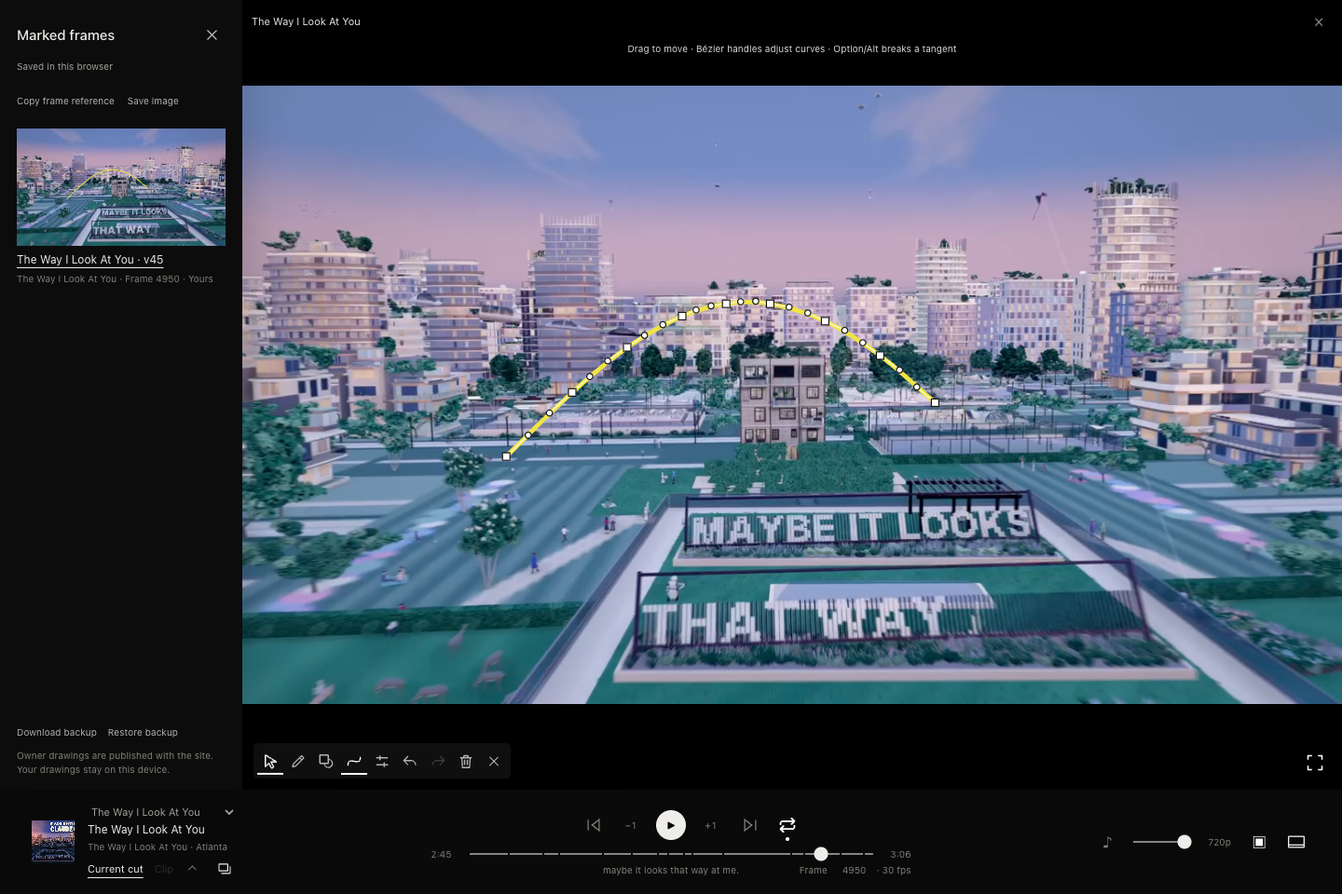
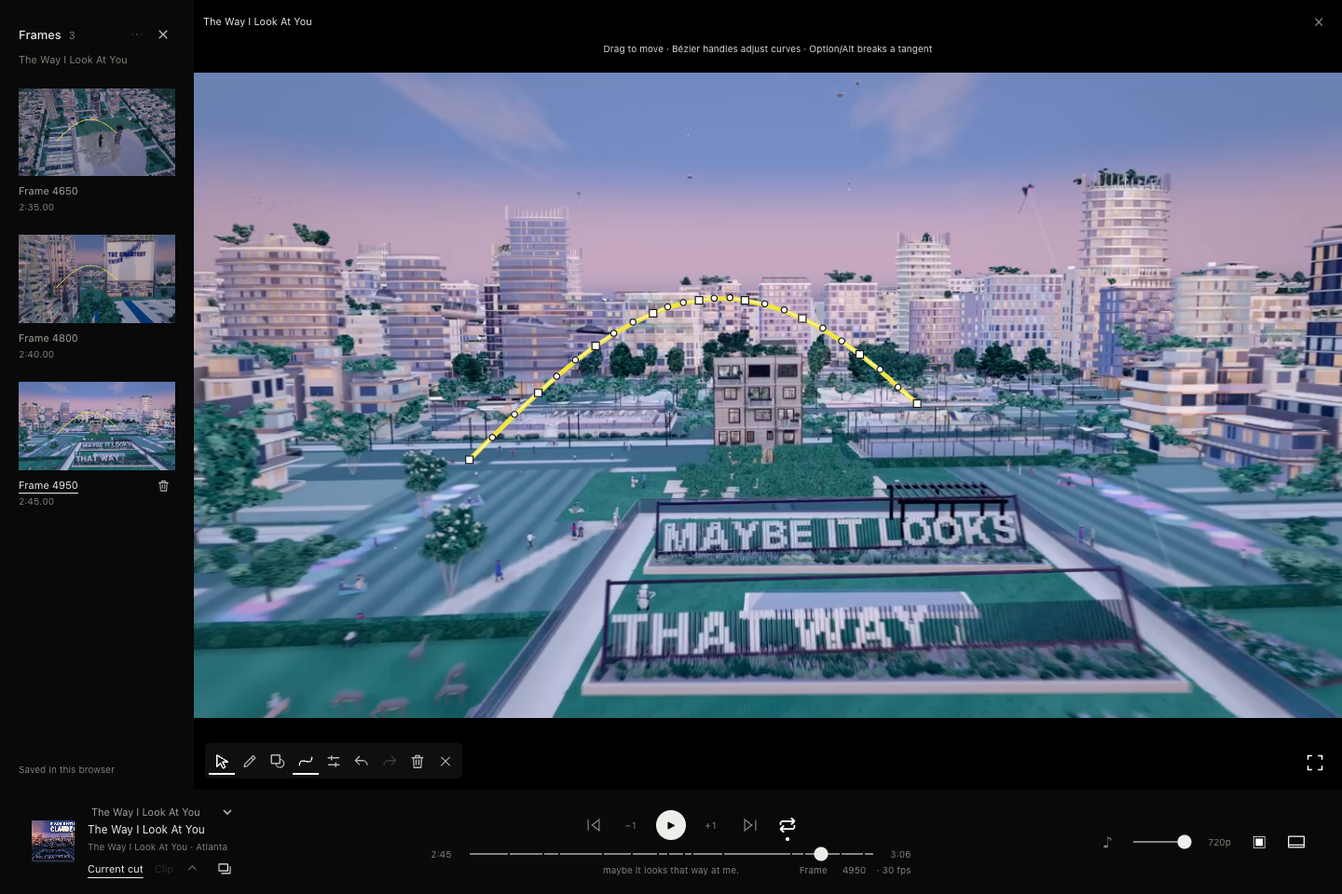
Simplify marked frames and add per-clip deletion with undo

diff --git a/web/markup.js b/web/markup.js
@@ -1,16 +1,17 @@
+import {markedFrames} from './markup-frames.js';
 import {MarkupStorage} from './markup-storage.js';
 import {clone,clipKey,frameKey,fittedBox,distance,shapePoints,linePoints,smoothNodes,drawingPath,translateDrawing,add,sub} from './markup-geometry.js';
 const NS='http://www.w3.org/2000/svg';
 const $=id=>document.getElementById(id);
 const el=(tag,attrs={},text)=>{const n=document.createElement(tag);for(const [k,v]of Object.entries(attrs))n.setAttribute(k,v);if(text!=null)n.textContent=text;return n;};
 const svg=(tag,attrs={})=>{const n=document.createElementNS(NS,tag);for(const[k,v]of Object.entries(attrs))n.setAttribute(k,v);return n;};
-const icons={pen:'M4 20l4-1L20 7l-3-3L5 16Z M14 7l3 3',select:'M5 3v17l5-5 4 7 3-2-4-7h8Z',shapes:'M3 3h12v12H3Z M15 9a6 6 0 1 1-6 6',undo:'M9 5 3 11l6 6 M3 11h11a6 6 0 0 1 6 6',redo:'m15 5 6 6-6 6 M21 11H10a6 6 0 0 0-6 6',trash:'M4 7h16 M9 7V4h6v3 M6 7l1 14h10l1-14 M10 10v7 M14 10v7',frames:'M3 5h14v11H3Z M7 20h14V9',close:'m6 6 12 12 M6 18 18 6',settings:'M4 7h16 M4 17h16 M9 4v6 M15 14v6',smooth:'M3 18C3 2 21 22 21 6',download:'M12 3v12 m-5-5 5 5 5-5 M4 17v4h16v-4'};
+const icons={more:'M5 12h.01 M12 12h.01 M19 12h.01',pen:'M4 20l4-1L20 7l-3-3L5 16Z M14 7l3 3',select:'M5 3v17l5-5 4 7 3-2-4-7h8Z',shapes:'M3 3h12v12H3Z M15 9a6 6 0 1 1-6 6',undo:'M9 5 3 11l6 6 M3 11h11a6 6 0 0 1 6 6',redo:'m15 5 6 6-6 6 M21 11H10a6 6 0 0 0-6 6',trash:'M4 7h16 M9 7V4h6v3 M6 7l1 14h10l1-14 M10 10v7 M14 10v7',frames:'M3 5h14v11H3Z M7 20h14V9',close:'m6 6 12 12 M6 18 18 6',settings:'M4 7h16 M4 17h16 M9 4v6 M15 14v6',smooth:'M3 18C3 2 21 22 21 6',download:'M12 3v12 m-5-5 5 5 5-5 M4 17v4h16v-4'};
 function button(name,icon,action){const b=el('button',{type:'button','aria-label':name,title:name,class:'markup-icon'});if(icon){const s=svg('svg',{viewBox:'0 0 24 24',fill:'none',stroke:'currentColor','stroke-width':1.7,'stroke-linecap':'round','stroke-linejoin':'round','aria-hidden':true});s.append(svg('path',{d:icons[icon]}));b.append(s);}else b.textContent=name;b.onclick=action;return b;}
 function download(blob,name){const a=el('a',{href:URL.createObjectURL(blob),download:name});a.click();setTimeout(()=>URL.revokeObjectURL(a.href),10000);}
 export class Markup {
   constructor(player,previewWindow,{base,staticMode,copyText}){
     this.player=player;this.window=previewWindow;this.static=staticMode;this.copyText=copyText;this.storage=new MarkupStorage(base,staticMode);
-    this.tool='pen';this.color='#F0E442';this.width=4;this.smooth=false;this.tolerance=2;this.editing=false;this.histories=new Map();this.selected=null;this.doc=null;this.key='';this.panelOpen=false;
+    this.tool='pen';this.color='#F0E442';this.width=4;this.smooth=false;this.tolerance=2;this.editing=false;this.histories=new Map();this.selected=null;this.doc=null;this.key='';this.panelOpen=false;this.removedFrames=[];
     this.preview=$('preview');this.video=$('video');this.build();
     this.storage.addEventListener('change',()=>{this.status.textContent=this.storage.status;this.renderList();if(!this.gesture)this.sync(true);});
     this.storage.ready.then(()=>this.sync(true));
@@ -58,22 +59,27 @@ export class Markup {
     this.hint=el('div',{id:'markup-hint'});this.preview.append(this.hint);
     this.snapshot=el('img',{id:'markup-snapshot',alt:'Saved marked frame'});this.snapshot.hidden=true;this.preview.insertBefore(this.snapshot,this.layer);
     this.panel=el('aside',{id:'markup-panel','aria-label':'Marked frames'});this.panel.hidden=true;
-    const heading=el('div',{class:'markup-heading'});heading.append(el('h2',{},'Marked frames'),button('Close marked frames','close',()=>this.openPanel(false)));this.panel.append(heading);
-    this.status=el('p',{class:'markup-status',role:'status'},this.storage.status);this.panel.append(this.status);
-    const actions=el('div',{class:'markup-actions'});this.copyButton=button('Copy frame reference',null,()=>this.copyReference());this.pngButton=button('Save image',null,()=>this.exportImage());actions.append(this.copyButton,this.pngButton);this.panel.append(actions);
+    const heading=el('div',{class:'markup-heading'});this.count=el('span',{class:'markup-count'});const title=el('h2',{},'Frames');title.append(this.count);
+    this.moreButton=button('Frame options','more',()=>this.popover(this.options,this.moreButton));this.moreButton.setAttribute('aria-expanded','false');
+    heading.append(title,this.moreButton,button('Close marked frames','close',()=>this.openPanel(false)));this.panel.append(heading);
+    this.clipLabel=el('p',{class:'markup-clip'});this.panel.append(this.clipLabel);
+    this.options=el('div',{class:'markup-popover markup-options',popover:'auto'});this.options.hidden=true;
+    const action=(name,fn)=>button(name,null,()=>{this.closePopovers();fn();});
+    this.copyButton=action('Copy frame reference',()=>this.copyReference());this.pngButton=action('Save frame image',()=>this.exportImage());this.options.append(this.copyButton,this.pngButton);
+    this.options.append(action('Download all drawings',()=>download(new Blob([JSON.stringify({schema:1,records:this.storage.records},null,2)],{type:'application/json'}),'wip-markup.json')));
+    this.options.append(action('Restore drawings',()=>this.importInput.click()));
+    this.importInput=el('input',{type:'file',accept:'.json,application/json',hidden:''});this.importInput.onchange=()=>this.restore();this.options.append(this.importInput);
+    if(!this.static)this.options.append(action('Retry saves',()=>this.storage.retry()));
+    this.options.append(el('small',{},this.static?'Your drawings stay in this browser. Owner drawings are read-only.':'Drawings save in your workspace.'));this.panel.append(this.options);
     this.list=el('div',{class:'markup-list'});this.panel.append(this.list);
-    const footer=el('div',{class:'markup-panel-footer'});
-    footer.append(button('Download backup',null,()=>download(new Blob([JSON.stringify({schema:1,records:this.storage.records},null,2)],{type:'application/json'}),'wip-markup.json')));
-    const restore=button('Restore backup',null,()=>this.importInput.click());footer.append(restore);
-    this.importInput=el('input',{type:'file',accept:'.json,application/json',hidden:''});this.importInput.onchange=()=>this.restore();footer.append(this.importInput);
-    if(!this.static)footer.append(button('Retry saves',null,()=>this.storage.retry()));
-    footer.append(el('small',{},this.static?'Owner drawings are published with the site. Your drawings stay on this device.':'Saved per frame, including older drafts. Agents can read the annotation JSON.'));this.panel.append(footer);document.body.append(this.panel);
+    this.notice=el('div',{class:'markup-notice',role:'status'});this.notice.hidden=true;this.noticeLabel=el('span');this.notice.append(this.noticeLabel,button('Undo frame deletion',null,()=>this.undoFrameRemoval()));this.notice.lastChild.textContent='Undo';this.panel.append(this.notice);
+    this.status=el('p',{class:'markup-status',role:'status'},this.storage.status);this.panel.append(this.status);document.body.append(this.panel);
     this.controls();
   }
-  closePopovers(){for(const [panel,b] of [[this.shapes,this.shapeButton],[this.settings,this.styleButton]]){panel.hidePopover?.();panel.hidden=true;b.setAttribute("aria-expanded","false");}}
+  closePopovers(){for(const [panel,b] of [[this.shapes,this.shapeButton],[this.settings,this.styleButton],[this.options,this.moreButton]]){panel.hidePopover?.();panel.hidden=true;b.setAttribute("aria-expanded","false");}}
   popover(panel,b){
     const open=panel.matches(":popover-open");this.closePopovers();if(open)return;panel.hidden=false;panel.showPopover?.();b.setAttribute("aria-expanded","true");
-    const anchor=b.getBoundingClientRect(),box=panel.getBoundingClientRect();Object.assign(panel.style,{position:"fixed",margin:"0",left:`${Math.max(8,Math.min(innerWidth-box.width-8,anchor.left))}px`,top:`${Math.max(8,anchor.top-box.height-10)}px`,bottom:"auto"});
+    const anchor=b.getBoundingClientRect(),box=panel.getBoundingClientRect();Object.assign(panel.style,{position:"fixed",margin:"0",left:`${Math.max(8,Math.min(innerWidth-box.width-8,anchor.left))}px`,top:`${Math.min(innerHeight-box.height-8,Math.max(8,anchor.top>=box.height+10?anchor.top-box.height-10:anchor.bottom+8))}px`,bottom:"auto"});
   }
   selectedDrawing(){return this.doc?.drawings.find(d=>d.id===this.selected);}
   frame(){return this.player.frame;}
@@ -81,7 +87,8 @@ export class Markup {
   available(){return !!this.player.track?.video&&!this.player.playing&&this.player.preview&&!this.video.seeking&&this.player.hasPicture&&this.video.readyState>=2&&!this.player.error&&!this.doc?.sourceChanged;}
   sync(force=false){
     if(this.gesture&&(this.player.playing||clipKey(this.player.track)!==clipKey(this.doc.clip)||this.frame()!==this.doc.frame))this.cancel();
-    const key=JSON.stringify([clipKey(this.player.track),this.frame(),this.player.fps]);
+    const clip=clipKey(this.player.track);if(clip!==this.listClip){this.listClip=clip;this.renderList();}
+    const key=JSON.stringify([clip,this.frame(),this.player.fps]);
     if(key!==this.key||force){
       this.key=key;
       const found=this.storage.records.find(a=>a.id===this.focusedId&&this.matching(a))||this.storage.records.find(a=>this.matching(a));
@@ -106,7 +113,7 @@ export class Markup {
   setTool(tool){this.tool=tool;this.selected=null;this.controls();this.render();}
   openPanel(on){this.panelOpen=on;this.panel.hidden=!on;this.dockButton.setAttribute('aria-expanded',String(on));document.body.classList.toggle('markup-open',on);this.layout();this.renderList();}
   layout(){
-    const mobile=innerWidth<=700;const inset=this.panelOpen?(mobile?0:260):0,bottom=this.panelOpen&&mobile?210:0;
+    const mobile=innerWidth<=700;const inset=this.panelOpen?(mobile?0:208):0,bottom=this.panelOpen&&mobile?176:0;
     document.documentElement.style.setProperty('--markup-side',`${inset}px`);document.documentElement.style.setProperty('--markup-bottom',`${bottom}px`);
     this.window.reserved={left:inset,bottom};this.window.layout();
     const v=this.video.getBoundingClientRect(),p=this.preview.getBoundingClientRect();
@@ -121,7 +128,7 @@ export class Markup {
     this.smoothButton.setAttribute('aria-pressed',String(this.selectedDrawing()?.smooth??this.smooth));
     const history=this.doc&&this.histories.get(this.doc.id);this.undoButton.disabled=!history?.undo.length;this.redoButton.disabled=!history?.redo.length;this.deleteButton.disabled=!this.selectedDrawing();
     for(const b of this.settings.querySelectorAll('[data-color]'))b.setAttribute('aria-pressed',String(b.dataset.color===this.color));
-    this.copyButton.disabled=!this.doc&&!this.owners?.length;this.pngButton.disabled=this.copyButton.disabled;
+    this.copyButton.disabled=!this.doc?.drawings.length&&!this.owners?.some(a=>a.drawings.length);this.pngButton.disabled=this.copyButton.disabled;
   }
   render(){
     this.layer.replaceChildren();const all=[...(this.owners||[]),...(this.doc?[this.doc]:[])];
@@ -198,25 +205,50 @@ export class Markup {
   keydown(e){
     if(!this.editing||e.target.closest('input,textarea,select')||e.target.isContentEditable)return;
     if((e.ctrlKey||e.metaKey)&&e.key.toLowerCase()==='z'){e.preventDefault();e.stopPropagation();this.undo(e.shiftKey);return;}
-    if(e.key==='Escape'){if(this.shapes.matches(':popover-open')||this.settings.matches(':popover-open')){this.closePopovers();e.preventDefault();e.stopPropagation();return;}e.preventDefault();e.stopPropagation();if(this.gesture)this.cancel();else if(this.selected){this.selected=null;this.render();this.controls();}else this.setEditing(false);return;}
+    if(e.key==='Escape'){if(this.shapes.matches(':popover-open')||this.settings.matches(':popover-open')||this.options.matches(':popover-open')){this.closePopovers();e.preventDefault();e.stopPropagation();return;}e.preventDefault();e.stopPropagation();if(this.gesture)this.cancel();else if(this.selected){this.selected=null;this.render();this.controls();}else this.setEditing(false);return;}
     if(e.key==='Delete'||e.key==='Backspace'){e.preventDefault();e.stopPropagation();this.remove();return;}
     if(e.ctrlKey||e.metaKey||e.altKey)return;
     if(e.key.toLowerCase()==='v'||e.key.toLowerCase()==='b'){e.preventDefault();this.setTool(e.key.toLowerCase()==='v'?'select':'pen');}
     if(e.key===' '&&e.target===this.layer){e.preventDefault();this.player.toggle();}
   }
-  renderList(){
-    const focus=document.activeElement?.dataset.annotation;
-    this.list.replaceChildren();const records=[...this.storage.owners,...this.storage.records].filter(a=>a.drawings.length).sort((a,b)=>b.updatedAt.localeCompare(a.updatedAt));
-    this.dockButton.title=`Marked frames · ${records.length}`;
-    if(!records.length)this.list.append(el('p',{class:'markup-empty'},'Draw on a paused frame. It will appear here.'));
-    for(const a of records){const b=el('button',{type:'button',class:'markup-frame','data-annotation':a.id,'data-owner':String(!!a.owner)});const picture=el('div',{class:'markup-thumb'});
-      if(a.thumbnail)picture.append(el('img',{src:a.thumbnail,alt:'',loading:'lazy'}));
-      const overlay=svg('svg',{viewBox:`0 0 ${a.width} ${a.height}`,'aria-hidden':true});for(const d of a.drawings)overlay.append(svg('path',{d:drawingPath(d),fill:'none',stroke:d.color,'stroke-width':d.width,'stroke-linecap':'round','stroke-linejoin':'round'}));picture.append(overlay);
-      b.append(picture,el('span',{},`${a.clip.title}${a.clip.version!=null?` · v${a.clip.version}`:''}`),el('small',{},`Frame ${a.frame}${a.owner?' · Owner':this.static?' · Yours':''} · ${a.clip.projectTitle||a.project}`));b.onclick=()=>this.jump(a);this.list.append(b);
+  removeFrame(group){
+    const records=group.records.filter(a=>!a.owner);if(!records.length)return;
+    this.cancel();this.removedFrames.push(clone(records));if(this.removedFrames.length>20)this.removedFrames.shift();
+    for(const a of records){const current=this.storage.records.find(r=>r.id===a.id);if(!current)continue;
+      if(this.doc?.id===a.id){this.checkpoint(current.drawings);this.selected=null;}
+      this.storage.save({...clone(current),drawings:[],updatedAt:new Date().toISOString()},clone(current));
     }
-    this.highlightList();if(focus)this.list.querySelector(`[data-annotation="${CSS.escape(focus)}"]`)?.focus({preventScroll:true});
+    this.notice.hidden=false;this.noticeLabel.textContent=`Frame ${group.frame} removed`;
+    this.sync(true);this.renderList();this.notice.querySelector('button').focus({preventScroll:true});
   }
-  highlightList(){for(const b of this.list.querySelectorAll('[data-annotation]'))b.setAttribute('aria-current',String(b.dataset.annotation===this.doc?.id||this.owners?.some(a=>a.id===b.dataset.annotation)));}
+  undoFrameRemoval(){
+    const records=this.removedFrames.pop();if(!records)return;
+    for(const a of records){const current=this.storage.records.find(r=>r.id===a.id);if(!current)continue;
+      // Restore removed strokes without replacing any edits made since deletion.
+      const drawings=[...a.drawings.filter(d=>!current.drawings.some(r=>r.id===d.id)),...current.drawings];
+      this.storage.save({...clone(current),drawings,updatedAt:new Date().toISOString()},clone(current));
+    }
+    this.notice.hidden=!this.removedFrames.length;if(this.removedFrames.length)this.noticeLabel.textContent=`Frame ${this.removedFrames.at(-1)[0].frame} removed`;
+    this.jump(records[0]);this.renderList();this.list.querySelector(`[data-annotation="${CSS.escape(records[0].id)}"]`)?.focus({preventScroll:true});
+  }
+  renderList(){
+    const focus=document.activeElement?.dataset.annotation,scroll=this.list.scrollTop;
+    this.list.replaceChildren();const groups=markedFrames([...this.storage.owners,...this.storage.records],this.player.track);
+    this.count.textContent=groups.length?String(groups.length):'';this.dockButton.title=`Marked frames in this clip · ${groups.length}`;
+    this.clipLabel.textContent=this.player.track?.title||'Select a video';this.clipLabel.title=this.clipLabel.textContent;
+    if(!groups.length)this.list.append(el('p',{class:'markup-empty'},this.player.track?.video?'No marked frames in this clip. Draw on a paused frame to add one.':'Play a video to see its marked frames.'));
+    for(const group of groups){const editable=group.records.filter(a=>!a.owner),a=editable[0]||group.records[0],row=el('div',{class:'markup-row'});
+      const b=el('button',{type:'button',class:'markup-frame','data-annotation':a.id,'data-owner':String(!editable.length),'data-frame':a.frame,'data-fps':a.fps,'aria-label':`Go to frame ${a.frame}`});const picture=el('div',{class:'markup-thumb'});
+      const thumbnail=group.records.find(r=>r.thumbnail)?.thumbnail;if(thumbnail)picture.append(el('img',{src:thumbnail,alt:'',loading:'lazy'}));
+      const overlay=svg('svg',{viewBox:`0 0 ${a.width} ${a.height}`,'aria-hidden':true});for(const r of group.records)for(const d of r.drawings)overlay.append(svg('path',{d:drawingPath(d),fill:'none',stroke:d.color,'stroke-width':d.width,'stroke-linecap':'round','stroke-linejoin':'round'}));picture.append(overlay);
+      const seconds=a.frame/a.fps,time=`${Math.floor(seconds/60)}:${(seconds%60).toFixed(2).padStart(5,'0')}`;
+      b.append(picture,el('span',{},`Frame ${a.frame}`),el('small',{},`${time}${!editable.length?' · Owner':''}`));b.onclick=()=>this.jump(a);row.append(b);
+      if(editable.length){const remove=button(this.static?`Remove your drawings on frame ${a.frame}`:`Delete marked frame ${a.frame}`,'trash',()=>this.removeFrame(group));remove.classList.add('markup-remove-frame');row.append(remove);}
+      this.list.append(row);
+    }
+    this.highlightList();this.list.scrollTop=scroll;if(focus)this.list.querySelector(`[data-annotation="${CSS.escape(focus)}"]`)?.focus({preventScroll:true});
+  }
+  highlightList(){for(const b of this.list.querySelectorAll('[data-annotation]'))b.setAttribute('aria-current',String(+b.dataset.frame===this.frame()&&+b.dataset.fps===this.player.fps));}
   jump(a){this.focusedId=a.owner?null:a.id;this.cancel();this.player.pause();this.editing=false;this.preview.classList.remove('markup-editing');this.toggle.setAttribute('aria-pressed','false');
     if(clipKey(this.player.track)!==clipKey(a.clip))this.player.load(a.clip,{time:a.frame/a.fps+(a.clip.offset||0),autoplay:false,preview:true});
     else this.player.showPreview(true);

diff --git a/web/markup.css b/web/markup.css
@@ -29,45 +29,61 @@
 .markup-colors .markup-icon { background:var(--swatch); border-radius:50%; width:20px!important; height:20px!important; box-shadow:0 0 0 1px #7774; }
 .markup-colors [aria-pressed=true] { outline:1px solid #fff; outline-offset:3px; }
 #markup-hint { position:absolute; top:46px; left:12px; right:12px; text-align:center; color:#ddd; font-size:10px; pointer-events:none; text-shadow:0 1px 4px #000,0 1px 4px #000; }
-#markup-panel { position:fixed; top:0; bottom:var(--dock); left:0; width:260px; z-index:23; background:#0c0c0cfb; padding:22px 18px 14px; display:flex; flex-direction:column; gap:12px; box-shadow:10px 0 35px #0002; }
+#markup-panel { position:fixed; top:0; bottom:var(--dock); left:0; width:208px; z-index:23; background:var(--bg,#0c0c0c); padding:24px 20px 14px; display:flex; flex-direction:column; gap:0; }
 #markup-panel[hidden] { display:none; }
-.markup-heading { display:flex; align-items:center; justify-content:space-between; }
-.markup-heading h2 { font-size:15px; font-weight:500; margin:0; }
-.markup-status { font-size:10px; color:var(--muted); min-height:26px; margin:0; line-height:1.5; }
-.markup-actions { display:flex; gap:14px; }
-.markup-actions .markup-icon,.markup-panel-footer .markup-icon { width:auto; height:auto; padding:0; font-size:10px; }
-.markup-list { overflow:auto; min-height:0; flex:1; overscroll-behavior:contain; }
-.markup-frame { display:block; text-align:left; padding:12px 0 16px; width:100%; color:var(--muted); }
+.markup-heading { display:flex; align-items:center; gap:2px; }
+.markup-heading h2 { flex:1; font-size:13px; font-weight:500; margin:0; }
+.markup-count { margin-left:8px; color:var(--faint); font-size:11px; font-weight:400; font-variant-numeric:tabular-nums; }
+.markup-heading .markup-icon { width:26px; height:26px; padding:4px; }
+.markup-heading .markup-icon svg { width:16px; height:16px; }
+.markup-clip { font-size:11px; line-height:1.5; color:var(--faint); margin:6px 0 22px; overflow:hidden; text-overflow:ellipsis; white-space:nowrap; }
+.markup-status { font-size:10px; color:var(--faint); margin:12px 0 0; line-height:1.5; overflow-wrap:anywhere; }
+.markup-options { display:flex; flex-direction:column; gap:8px; }
+.markup-options[hidden] { display:none; }
+.markup-options .markup-icon { width:auto; height:auto; padding:4px 0; justify-content:flex-start; font-size:12px; }
+.markup-list { overflow:auto; min-height:0; flex:1; overscroll-behavior:contain; scrollbar-width:thin; }
+.markup-row { position:relative; margin-bottom:22px; }
+.markup-frame { display:block; text-align:left; padding:0; width:100%; color:var(--muted); }
 .markup-frame:hover,.markup-frame[aria-current=true] { color:var(--ink); }
+.markup-frame > span { display:block; font-size:11px; margin-top:8px; padding-right:27px; line-height:1.4; font-variant-numeric:tabular-nums; }
 .markup-frame[aria-current=true] > span { text-decoration:underline; text-underline-offset:4px; }
-.markup-frame > span { display:block; font-size:12px; margin-top:7px; line-height:1.4; }
-.markup-frame > small { display:block; font-size:10px; color:var(--faint); margin-top:4px; line-height:1.5; }
-.markup-thumb { position:relative; aspect-ratio:16/9; background:#000; }
+.markup-frame > small { display:block; font-size:10px; color:var(--faint); margin-top:3px; line-height:1.5; font-variant-numeric:tabular-nums; }
+.markup-thumb { position:relative; aspect-ratio:16/9; overflow:hidden; }
 .markup-thumb img,.markup-thumb svg { position:absolute; width:100%; height:100%; object-fit:contain; }
-.markup-empty { font-size:12px; line-height:1.6; margin-top:25px; color:var(--faint); }
-.markup-panel-footer { display:flex; flex-wrap:wrap; gap:12px; }
-.markup-panel-footer small { display:block; flex-basis:100%; color:var(--faint); font-size:10px; line-height:1.5; }
+.markup-thumb img { opacity:.75; transition:opacity .18s; }
+.markup-frame:is(:hover,:focus-visible,[aria-current=true]) .markup-thumb img { opacity:1; }
+.markup-remove-frame { position:absolute; right:0; bottom:12px; width:26px; height:26px; opacity:0; }
+.markup-remove-frame svg { width:15px; height:15px; }
+.markup-row:is(:hover,:focus-within) .markup-remove-frame { opacity:1; }
+.markup-empty { font-size:11px; line-height:1.7; margin:0; color:var(--faint); }
+.markup-notice { display:flex; align-items:center; justify-content:space-between; gap:8px; font-size:10px; color:var(--muted); padding-top:10px; }
+.markup-notice[hidden] { display:none; }
+.markup-notice .markup-icon { width:auto; height:26px; padding:0; font-size:11px; color:var(--ink); }
 #preview.theatre #video,#preview:fullscreen #video { margin-left:var(--markup-side); width:calc(100% - var(--markup-side)); height:calc(100% - var(--markup-bottom)); }
 #preview:is(.theatre,:fullscreen) .markup-toggle,#preview:is(.theatre,:fullscreen) #markup-toolbar { left:calc(var(--markup-side) + 12px); bottom:calc(var(--markup-bottom) + 12px); }
 #preview:fullscreen #markup-toolbar,#preview:fullscreen .markup-toggle { bottom:calc(var(--dock) + var(--markup-bottom) + 12px); }
 #preview:is(.theatre,:fullscreen) #markup-hint { left:calc(var(--markup-side) + 12px); }
 #preview.theatre .preview-label { left:var(--markup-side); }
 @media(max-width:700px) {
- #markup-panel { top:auto; height:210px; width:100%; padding:10px 14px; gap:6px; }
- .markup-heading h2 { font-size:13px; }
- .markup-status { min-height:0; position:absolute; top:18px; left:130px; right:48px; white-space:nowrap; overflow:hidden; text-overflow:ellipsis; }
- .markup-list { display:flex; gap:15px; }
- .markup-frame { width:140px; flex-shrink:0; padding:0; }
- .markup-frame > span { font-size:10px; white-space:nowrap; overflow:hidden; text-overflow:ellipsis; }
- .markup-frame > small { font-size:9px; white-space:nowrap; overflow:hidden; text-overflow:ellipsis; }
- .markup-thumb { height:67px; }
- .markup-panel-footer small { display:none; }
+ #markup-panel { top:auto; height:176px; width:100%; padding:8px 14px; gap:0; }
+ .markup-heading { height:25px; }
+ .markup-heading h2 { font-size:12px; }
+ .markup-clip { position:absolute; left:100px; right:78px; top:10px; margin:0; font-size:10px; }
+ .markup-list { display:flex; gap:16px; padding-top:7px; }
+ .markup-row { width:112px; flex-shrink:0; margin:0; }
+ .markup-frame > span { font-size:10px; margin-top:5px; }
+ .markup-frame > small { font-size:9px; margin-top:1px; }
+ .markup-remove-frame { width:24px; height:24px; bottom:8px; opacity:1; }
+ .markup-status { margin:4px 0 0; font-size:9px; line-height:12px; white-space:nowrap; overflow:hidden; text-overflow:ellipsis; }
+ .markup-notice { position:absolute; left:14px; bottom:4px; right:14px; padding:0; background:var(--bg,#0c0c0c); }
+ .markup-notice:not([hidden]) + .markup-status { visibility:hidden; }
+ .markup-notice .markup-icon { height:18px; }
  #markup-toolbar { gap:0; padding:2px; max-width:calc(100% - 44px); left:4px; }
  #markup-toolbar .markup-icon { width:24px; height:27px; padding:4px; }
  #markup-hint { top:40px; font-size:9px; }
 }
-@media(hover:none) { .markup-toggle { opacity:1; } }
-@media(prefers-reduced-motion:reduce) { .markup-icon { transition:none; } }
+@media(hover:none) { .markup-toggle,.markup-remove-frame { opacity:1; } }
+@media(prefers-reduced-motion:reduce) { .markup-icon,.markup-thumb img { transition:none; } }
 
 @media(min-width:701px) {
  body.markup-open main { width:calc(100% - var(--markup-side)); margin-left:calc(var(--markup-side) + max(0px,(100vw - var(--markup-side) - 1120px)/2)); margin-right:0; }

diff --git a/web/markup-frames.js b/web/markup-frames.js
@@ -1,0 +1,14 @@
+import {clipKey} from './markup-geometry.js';
+
+// One row per exact frame, including the owner's and visitor's separate layers.
+export function markedFrames(records,track){
+  if(!track?.video)return [];
+  const groups=new Map();
+  for(const record of records){
+    if(!record.drawings.length||clipKey(record.clip)!==clipKey(track))continue;
+    const key=JSON.stringify([record.frame,record.fps]);
+    if(!groups.has(key))groups.set(key,{frame:record.frame,fps:record.fps,records:[]});
+    groups.get(key).records.push(record);
+  }
+  return [...groups.values()].sort((a,b)=>a.frame/a.fps-b.frame/b.fps||a.fps-b.fps);
+}

diff --git a/web/player.js b/web/player.js
@@ -188,6 +188,8 @@ export class Player extends EventTarget {
       if (this.track.audio) this.syncVideo(true);
     } catch (e) {
       if (epoch !== this.epoch) return;
+      // Pausing to draw can intentionally cancel an unresolved play request.
+      if (e.name === "AbortError" && !this.playing) return;
       this.playing = false;
       this.error =
         e.name === "NotAllowedError"

diff --git a/docs/markup.md b/docs/markup.md
@@ -2,7 +2,10 @@
 
 Hover over the video and choose the pencil. Playback pauses on the displayed
 frame and **Marked frames** opens beside the picture. The bottom bar's marked-frame
-button reopens the list at any time. Select a thumbnail to reopen that exact clip,
+button reopens the list at any time. The compact list shows only the playing clip
+and version, in frame order. Owner and personal drawings on the same frame share
+one thumbnail. Hover a frame and choose its trash icon to remove all your drawings
+on it; **Undo** restores them. Published owner drawings remain read-only. Select a thumbnail to reopen that exact clip,
 version and zero-based frame; changing the current cut does not move old markup.
 Drawings hide during playback and on other frames.
 
@@ -24,8 +27,9 @@ Drawings hide during playback and on other frames.
   Escape cancels a gesture, clears selection, then leaves drawing mode. B returns
   to freehand. Frame-step controls still work while drawing.
 
+Open the **Frame options** (•••) menu for backup, restore and export.
 Use **Copy frame reference** to paste the clip, frame, FPS and annotation reference
-into an agent conversation. **Save image** downloads the frame with its drawings.
+into an agent conversation. **Save frame image** downloads the frame with its drawings.
 Mini-player resizing, corner snapping, theatre and true fullscreen all preserve
 alignment, including portrait footage with letterboxing.
 
@@ -58,8 +62,12 @@ Saving first keeps a recovery copy in IndexedDB, then writes the workspace file
 atomically. A failed server save remains in an outbox; **Retry saves** sends it
 again. Independent concurrent drawing edits merge. Conflicting edits retain both
 strokes and show a notice rather than silently dropping either person's work.
-**Download backup** / **Restore backup** also work across browsers. Storage errors
+**Download all drawings** / **Restore drawings** also work across browsers. Storage errors
 are shown; do not close a tab reporting “Not saved” before exporting a backup.
+
+Removing a frame saves an empty drawing list with revision checks, so a delayed
+write cannot silently resurrect the old drawing. Empty records are hidden from
+the frame list; the file remains available for revision-safe undo.
 
 Markup keeps references to old media and does not duplicate entire video files.
 Keep draft media at immutable URLs. Local size/mtime fingerprints detect when a

diff --git a/README.md b/README.md
@@ -135,8 +135,9 @@ The hosted collection is public and can be explored without signing in.
 
 Draw directly on a paused video frame. Keep rough strokes or turn them into editable
 Bézier curves; add constrained shapes and arrows. Marked frames stay attached to
-their original clips in a thumbnail sidebar, with workspace saves, browser recovery,
-and image export. Public sites show published owner drawings while visitors keep
+their original clips in a minimal, clip-specific frame list. Remove a whole marked
+frame with one click and undo it if needed. Workspace saves, browser recovery,
+and image export keep review notes accessible. Public sites show published owner drawings while visitors keep
 private sketches in their own browsers. [Markup guide](docs/markup.md).
 
 ![Example curve markup on a frame from The Way I Look At You, with editable handles and the marked-frame sidebar](docs/images/wip-markup.png)
